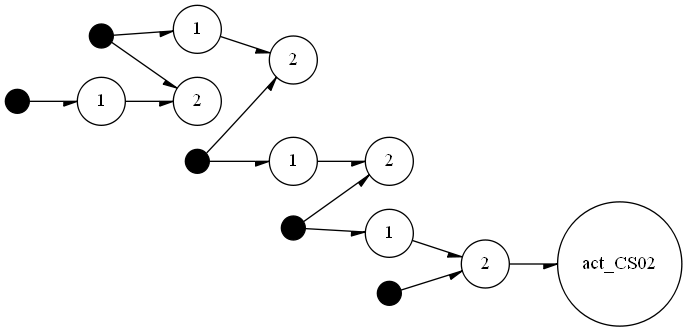
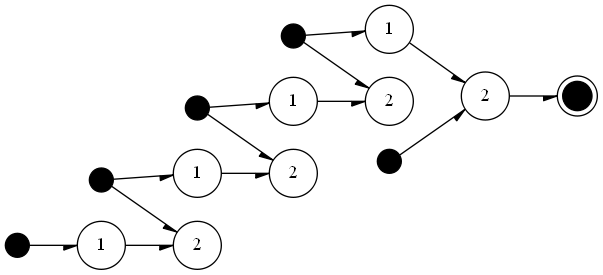
readme update

diff --git a/manager.py b/manager.py
@@ -75,6 +75,8 @@ class manager :
     def dot_generator(self):
         temp = "digraph \"device\"{ graph [rankdir=LR] node [shape=circle]"
         end = '}'
+        for a in self.actuators:
+            temp = f"{temp} {a.name} [color=black style=filled shape=doublecircle label=\"\" width=0.30]"
         for t in self.thresholds:
             temp = f"{temp} {t.name} [label =\"{t.threshold}\"]"
         for w in self.wires:

diff --git a/README.md b/README.md
@@ -1,1 +1,18 @@
-# vehicles
+# VEHICLES
+
+ This hobby project is an (ongoing)implementation of the vehicles described in the book "Vehicles - Experiments in Synthetic Psychology" written by Valentino Braitenberg.
+ Currently it is only a prototype/proof-of-concept, closely following the book and showcasing some of the simple examples mentioned in it.
+ It currently only supports creation of simple threshold devices, and includes placeholders for sensors and actuators in order to provide input and get output to/from threshold devices.
+ As a bonus a graph generator is implemented to visualize the created threshold devices. Nodes and the connections in the device are outputted in DOT language and rendered with graphviz.
+
+ ## 1. Simple threshold device for movement detection:
+
+[1] p.36 Figure 13.
+![logo](./right2left/right2left_movement.png?raw=true)
+
+
+
+
+
+
+[1] V. Braitenberg, Vehicles, experiments in synthetic psychology. Cambridge, MA: MIT Press, 1984. 
